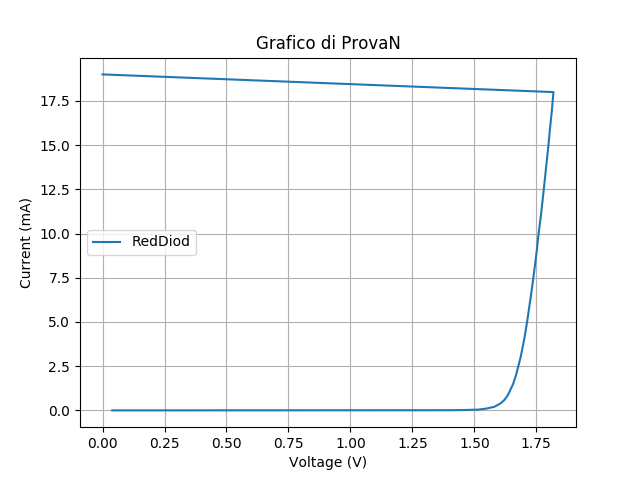
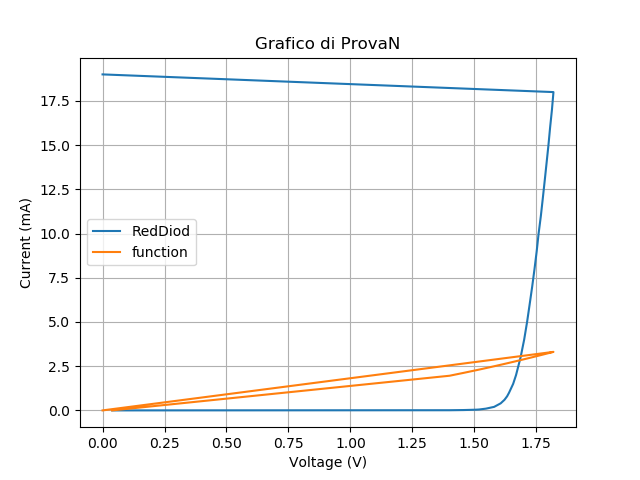
added the possibility to plot a function over some data and the possibility to interactive see plot with plot.show(), the latter feature is a bit bugged

diff --git a/operatingFunctions.py b/operatingFunctions.py
@@ -242,9 +242,13 @@ def startAnalisy(null):
             #print(dataSet_dict[i]._set[j]._name)
             Symbol(dataSet_dict[i]._set[j]._name +'_s') #creates the variable adding an _s to the end
        
+       ##need to add sorting of data before plotting with argsort from numpy
 def newPlot(info):
     #print(info[0].split()[1])
-    dataSet = dataSet_dict[info[0].split()[1]] #set the DSet of reference
+    if info[0].split()[1] == '-show': #checks if -show flag his activated and set correctli the DSet
+        dataSet = dataSet_dict[info[0].split()[2]] #set the DSet of reference
+    else: 
+        dataSet = dataSet_dict[info[0].split()[1]] #set the DSet of reference
     #print(dataSet._name)
     title = info[1] #set graph title
     title1 = ''.join(info[1].split()) #creates the name which will be use to save the graph
@@ -279,16 +283,25 @@ def newPlot(info):
     #if len(info) > 3: 
     for i in range(len(info[4:])): #checks if the function is not just the standatd -> if more commands need to be executed
         #print(3+i)
-        if dataSet._set[info[4+i].split()[1]]._unit == dataSet._set[info[3].split()[2]]._unit: #checks if the unit of measure is the same for the two yvalues
-            ylabel1 = info[4+i].split()[0]
-            y1 = dataSet._set[info[4+i].split()[1]]._valueList
+        if info[4+i].split()[0] == 'FUNCTION': #check if the user whant a functin to be plotted
+            expr = ''.join(info[4+i].split()[2:]) #create function expression
+            expr = re.sub(info[2].split()[1],info[2].split()[1]+'_s',expr) #substitute the variable 
+            func = lambdify(info[2].split()[1]+'_s', expr, "numpy") #cretes the function
+            y1 = func(x) #evaluate the function
+            ylabel1 = info[4+i].split()[1]
             plt.plot(x,y1,label=ylabel1)
         else:
-            print("Can't plot ", dataSet._set[info[3].split()[2]]._name, " with ", dataSet._set[info[4+i].split()[1]]._name, " because don't have the same unit of measurement")
+            if dataSet._set[info[4+i].split()[1]]._unit == dataSet._set[info[3].split()[2]]._unit: #checks if the unit of measure is the same for the two yvalues
+                ylabel1 = info[4+i].split()[0]
+                y1 = dataSet._set[info[4+i].split()[1]]._valueList
+                plt.plot(x,y1,label=ylabel1)
+            else:
+                print("Can't plot ", dataSet._set[info[3].split()[2]]._name, " with ", dataSet._set[info[4+i].split()[1]]._name, " because don't have the same unit of measurement")
     plt.grid()
     plt.legend()
     plt.savefig(title1, dpi=100)
-    #plt.show()
+    if info[0].split()[1] == '-show': #If the -show flag his activated plt.show() it's executed
+        plt.show()
     '''
     ax.set(xlabel= xname, ylabel= yname,
         title= title1)
